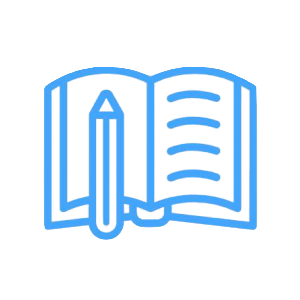
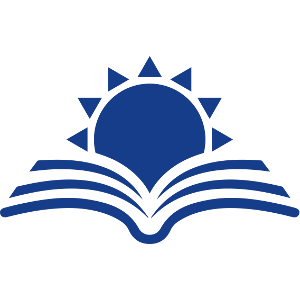
Update brand stuff.

diff --git a/app/stylesheets/bundles/mobile_auth.scss b/app/stylesheets/bundles/mobile_auth.scss
@@ -52,10 +52,11 @@ html, body {
 
 .mobileLogin-Header {
   z-index: 1;
-  background-image: url("/images/mobile_login/canvas_logo_login.svg");
+  // background-image: url("/images/mobile_login/canvas_logo_login.svg");
+  background-image: url("/images/mobile_login/canvas_logo_login.png");
   background-position: center;
   background-repeat: no-repeat;
-  background-size: 156px 108px;
+  // background-size: 156px 108px;
   min-height: 156px;
 }
 .face {

diff --git a/app/stylesheets/bundles/course_wizard.scss b/app/stylesheets/bundles/course_wizard.scss
@@ -57,7 +57,8 @@ $ic-wizard-color-dark-neutral: $ic-color-dark;
 }
 
 .ic-wizard-box__logo-link {
-  background: url("/images/canvas-logo.svg") no-repeat $ic-sp+4 50%;
+  // background: url("/images/canvas-logo.svg") no-repeat $ic-sp+4 50%;
+  background: url("/images/canvas-logo.png") no-repeat $ic-sp+4 50%;
   background-size: 114px 27px;
   border-#{direction(left)}: 4px solid transparent;
   flex: 0 0 36px;
